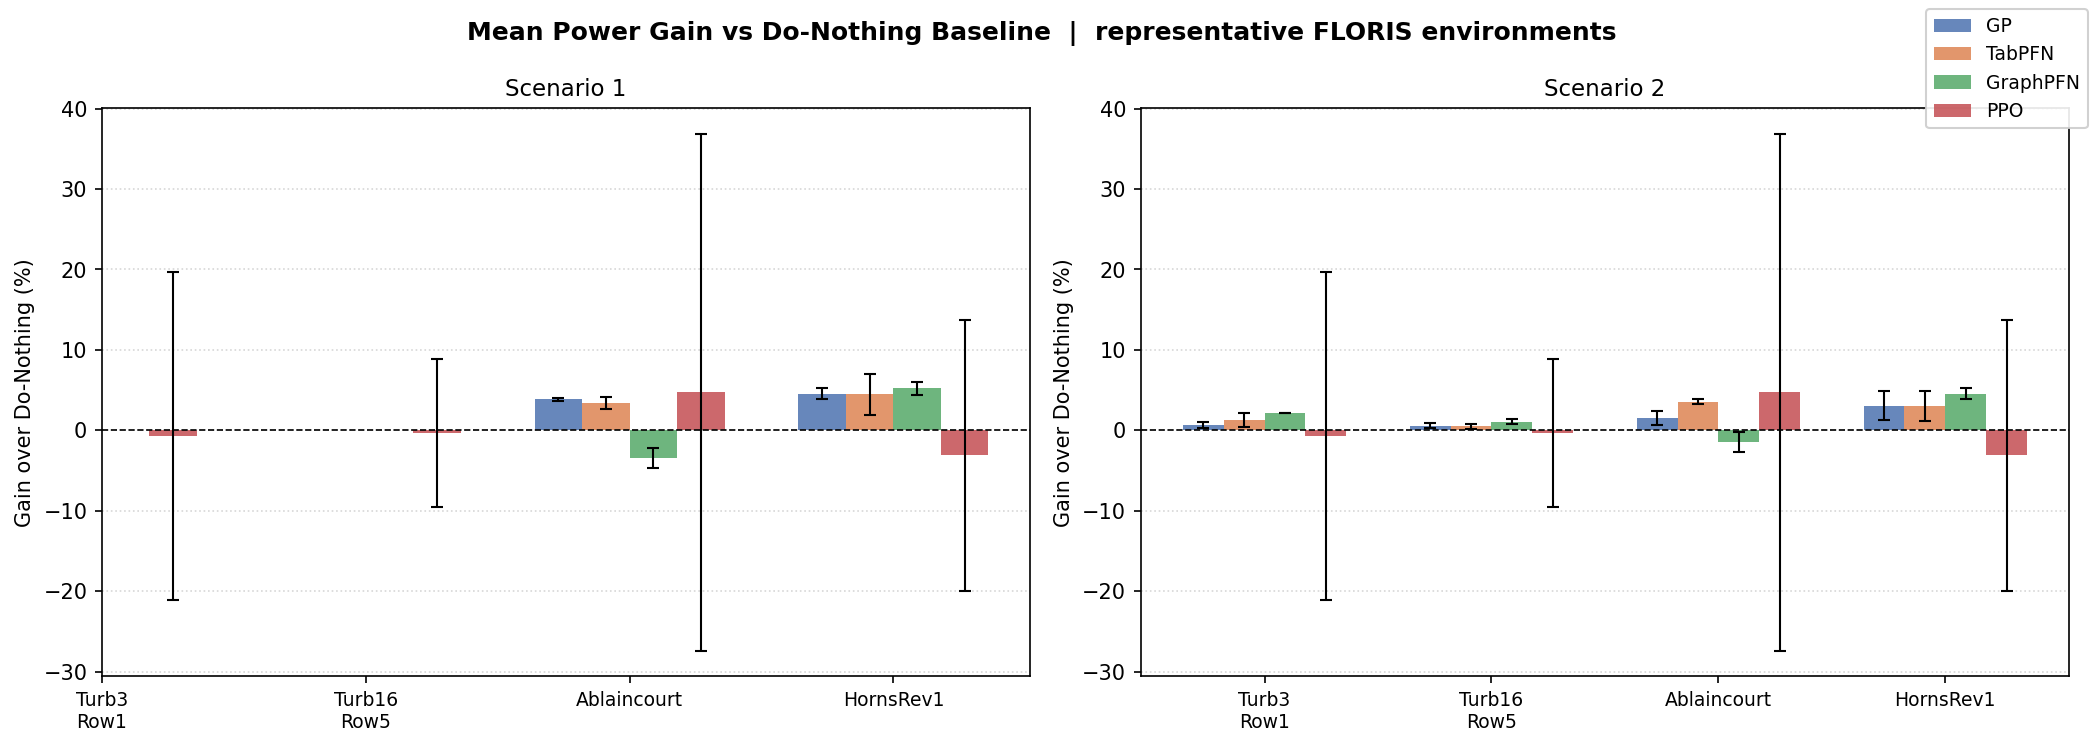
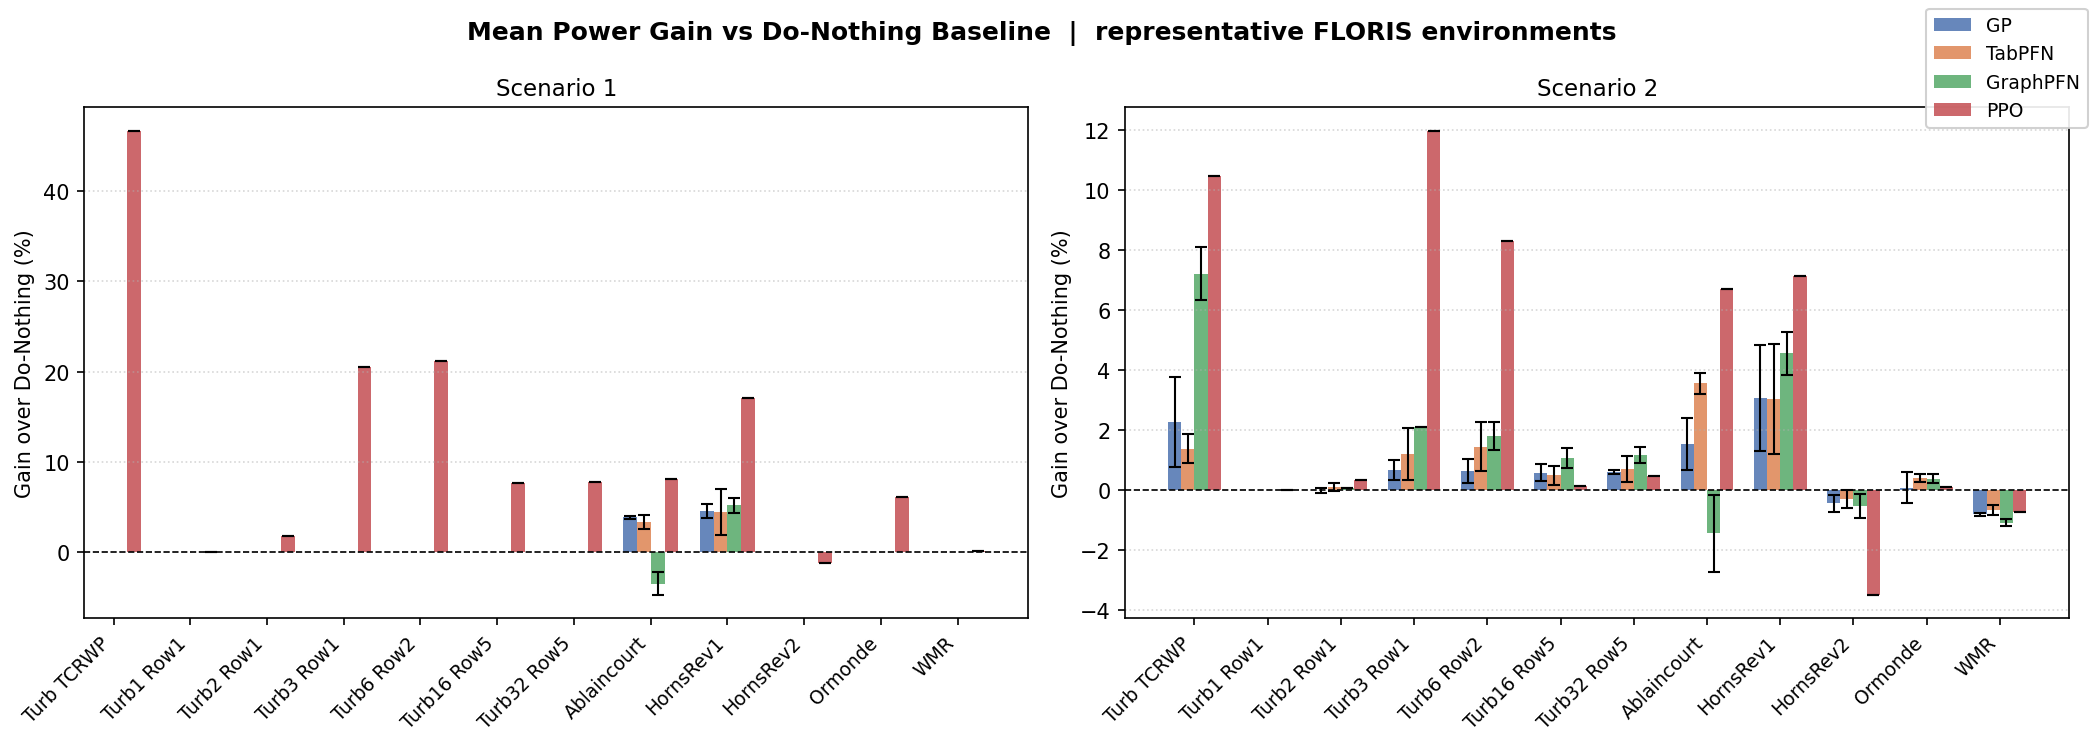
Collect updated RL_PPO results

diff --git a/collect_results.py b/collect_results.py
@@ -21,10 +21,18 @@ import pandas as pd
 # ---------------------------------------------------------------------------
 
 REPRESENTATIVE_ENVS = [
+    "Turb_TCRWP_Floris",
+    "Turb1_Row1_Floris",
+    "Turb2_Row1_Floris",
     "Turb3_Row1_Floris",
+    "Turb6_Row2_Floris",
     "Turb16_Row5_Floris",
+    "Turb32_Row5_Floris",
     "Ablaincourt_Floris",
     "HornsRev1_Floris",
+    "HornsRev2_Floris",
+    "Ormonde_Floris",
+    "WMR_Floris",
 ]
 
 METHOD_COLORS = {
@@ -171,15 +179,15 @@ def load_kevin_results() -> pd.DataFrame:
 
 def _parse_zeph_summary_text(text: str) -> pd.DataFrame:
     """
-    Parse the truncated DataFrame repr from Zeph's Cell 49.
-    Block 1: index  env_id  status  n_turbines  ppo_mean  ppo_std
-    Block 2: index  baseline_mean  baseline_std  gain_pct  simulator
+    Parse the DataFrame repr from Zeph's summary cell.
+    Block 1: index  env_id  status  n_turbines  ppo_mean  ppo_std  baseline_mean
+    Block 2: index  baseline_std  gain_pct  simulator
     """
     row1_re = re.compile(
-        r"^\s*(\d+)\s+(\S+_Floris)\s+(ok|error)\s+(\d+)\s+([\d.]+)\s+([\d.]+)"
+        r"^\s*(\d+)\s+(\S+_Floris)\s+(ok|error)\s+(\d+)\s+([\d.]+)\s+([\d.]+)\s+([\d.]+)"
     )
     row2_re = re.compile(
-        r"^\s*(\d+)\s+([\d.]+)\s+([\d.]+)\s+(-?[\d.]+)\s+\S+"
+        r"^\s*(\d+)\s+([\d.eE+-]+)\s+(-?[\d.eE+-]+)\s+\S+"
     )
 
     block1 = {}
@@ -187,25 +195,25 @@ def _parse_zeph_summary_text(text: str) -> pd.DataFrame:
     in_block2 = False
 
     for line in text.splitlines():
-        if "baseline_mean" in line:
+        if "baseline_std" in line:
             in_block2 = True
             continue
         if not in_block2:
             m = row1_re.match(line)
             if m:
                 block1[int(m.group(1))] = {
-                    "env_id":     m.group(2),
-                    "status":     m.group(3),
-                    "ppo_mean":   float(m.group(5)),
-                    "ppo_std":    float(m.group(6)),
+                    "env_id":        m.group(2),
+                    "status":        m.group(3),
+                    "ppo_mean":      float(m.group(5)),
+                    "ppo_std":       float(m.group(6)),
+                    "baseline_mean": float(m.group(7)),
                 }
         else:
             m = row2_re.match(line)
             if m:
                 block2[int(m.group(1))] = {
-                    "baseline_mean": float(m.group(2)),
-                    "baseline_std":  float(m.group(3)),
-                    "gain_pct":      float(m.group(4)),
+                    "baseline_std": float(m.group(2)),
+                    "gain_pct":     float(m.group(3)),
                 }
 
     if not block1:
@@ -290,7 +298,7 @@ def make_bar_chart(df: pd.DataFrame, out_path: str) -> None:
     scenarios  = ["Scenario 1", "Scenario 2"]
     methods    = ["GP", "TabPFN", "GraphPFN", "PPO"]
     envs       = REPRESENTATIVE_ENVS
-    env_labels = [e.replace("_Floris", "").replace("_", "\n") for e in envs]
+    env_labels = [e.replace("_Floris", "").replace("_", " ") for e in envs]
 
     fig, axes = plt.subplots(1, len(scenarios), figsize=(14, 5), sharey=False)
     fig.suptitle(
@@ -325,7 +333,7 @@ def make_bar_chart(df: pd.DataFrame, out_path: str) -> None:
         ax.axhline(0, color="black", linewidth=0.8, linestyle="--")
         ax.set_title(scenario, fontsize=11)
         ax.set_xticks(x)
-        ax.set_xticklabels(env_labels, fontsize=9)
+        ax.set_xticklabels(env_labels, fontsize=9, rotation=45, ha="right")
         ax.set_ylabel("Gain over Do-Nothing (%)")
         ax.grid(axis="y", linestyle=":", alpha=0.5)
 